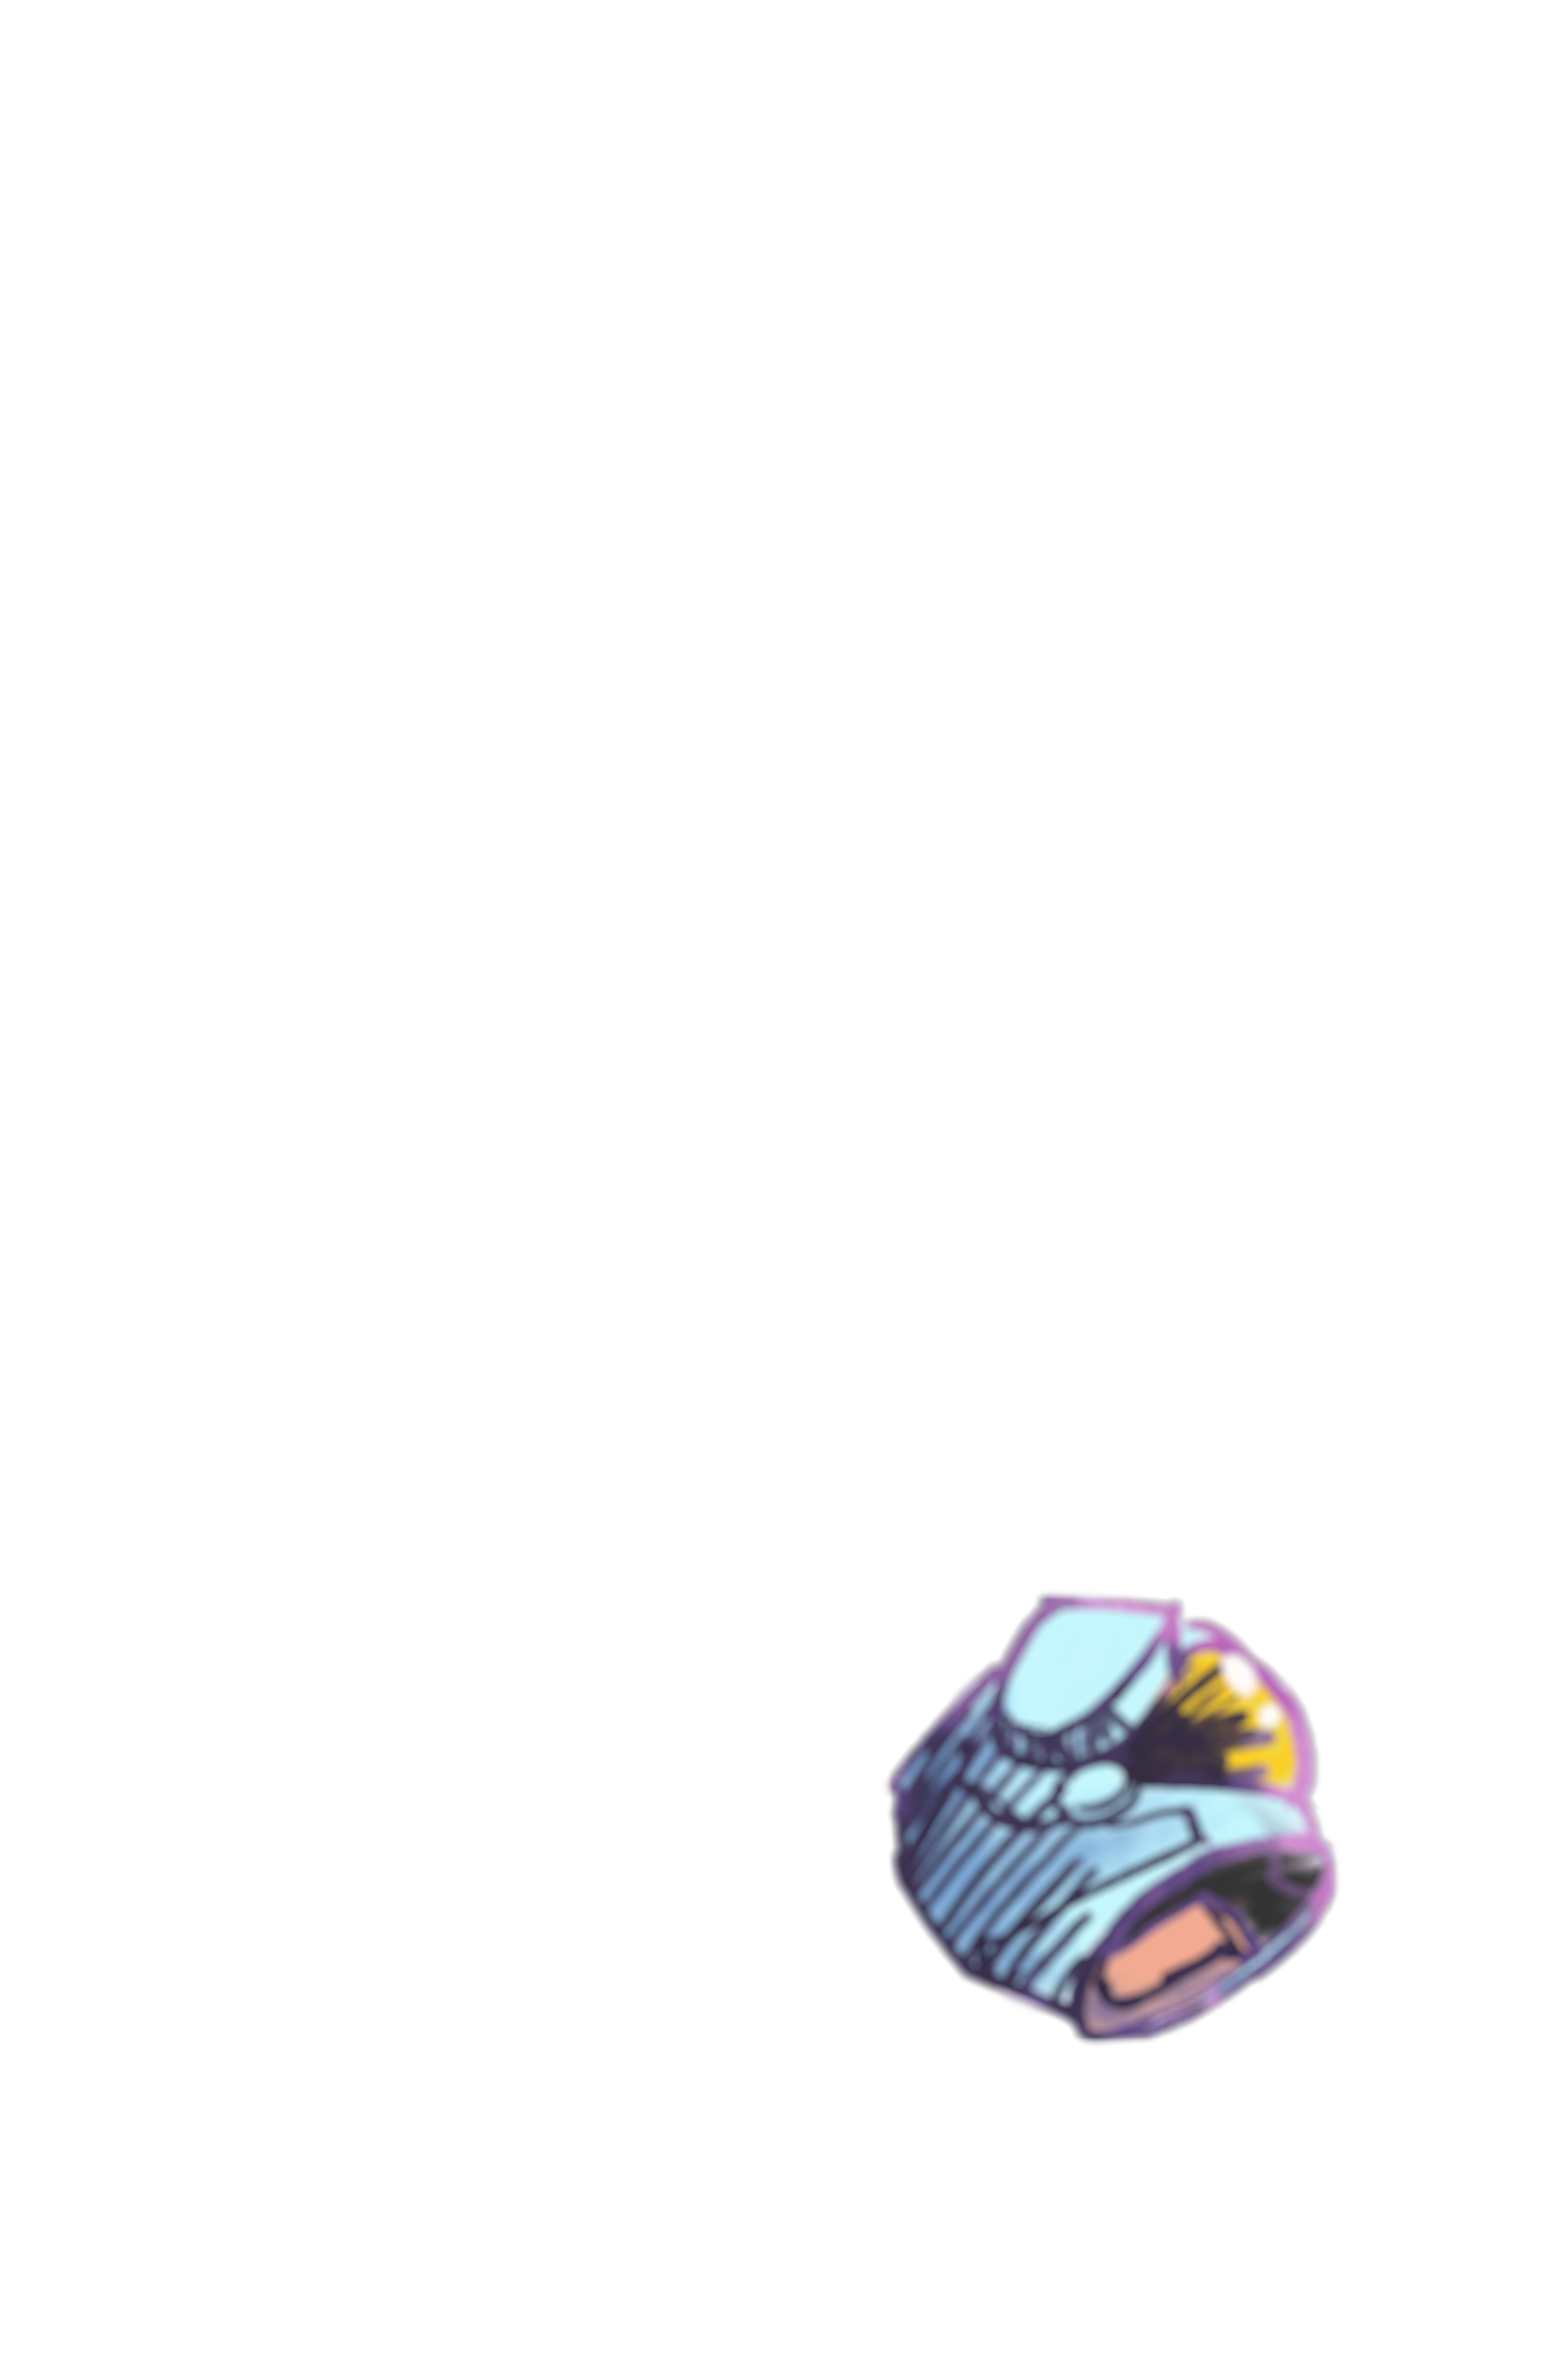
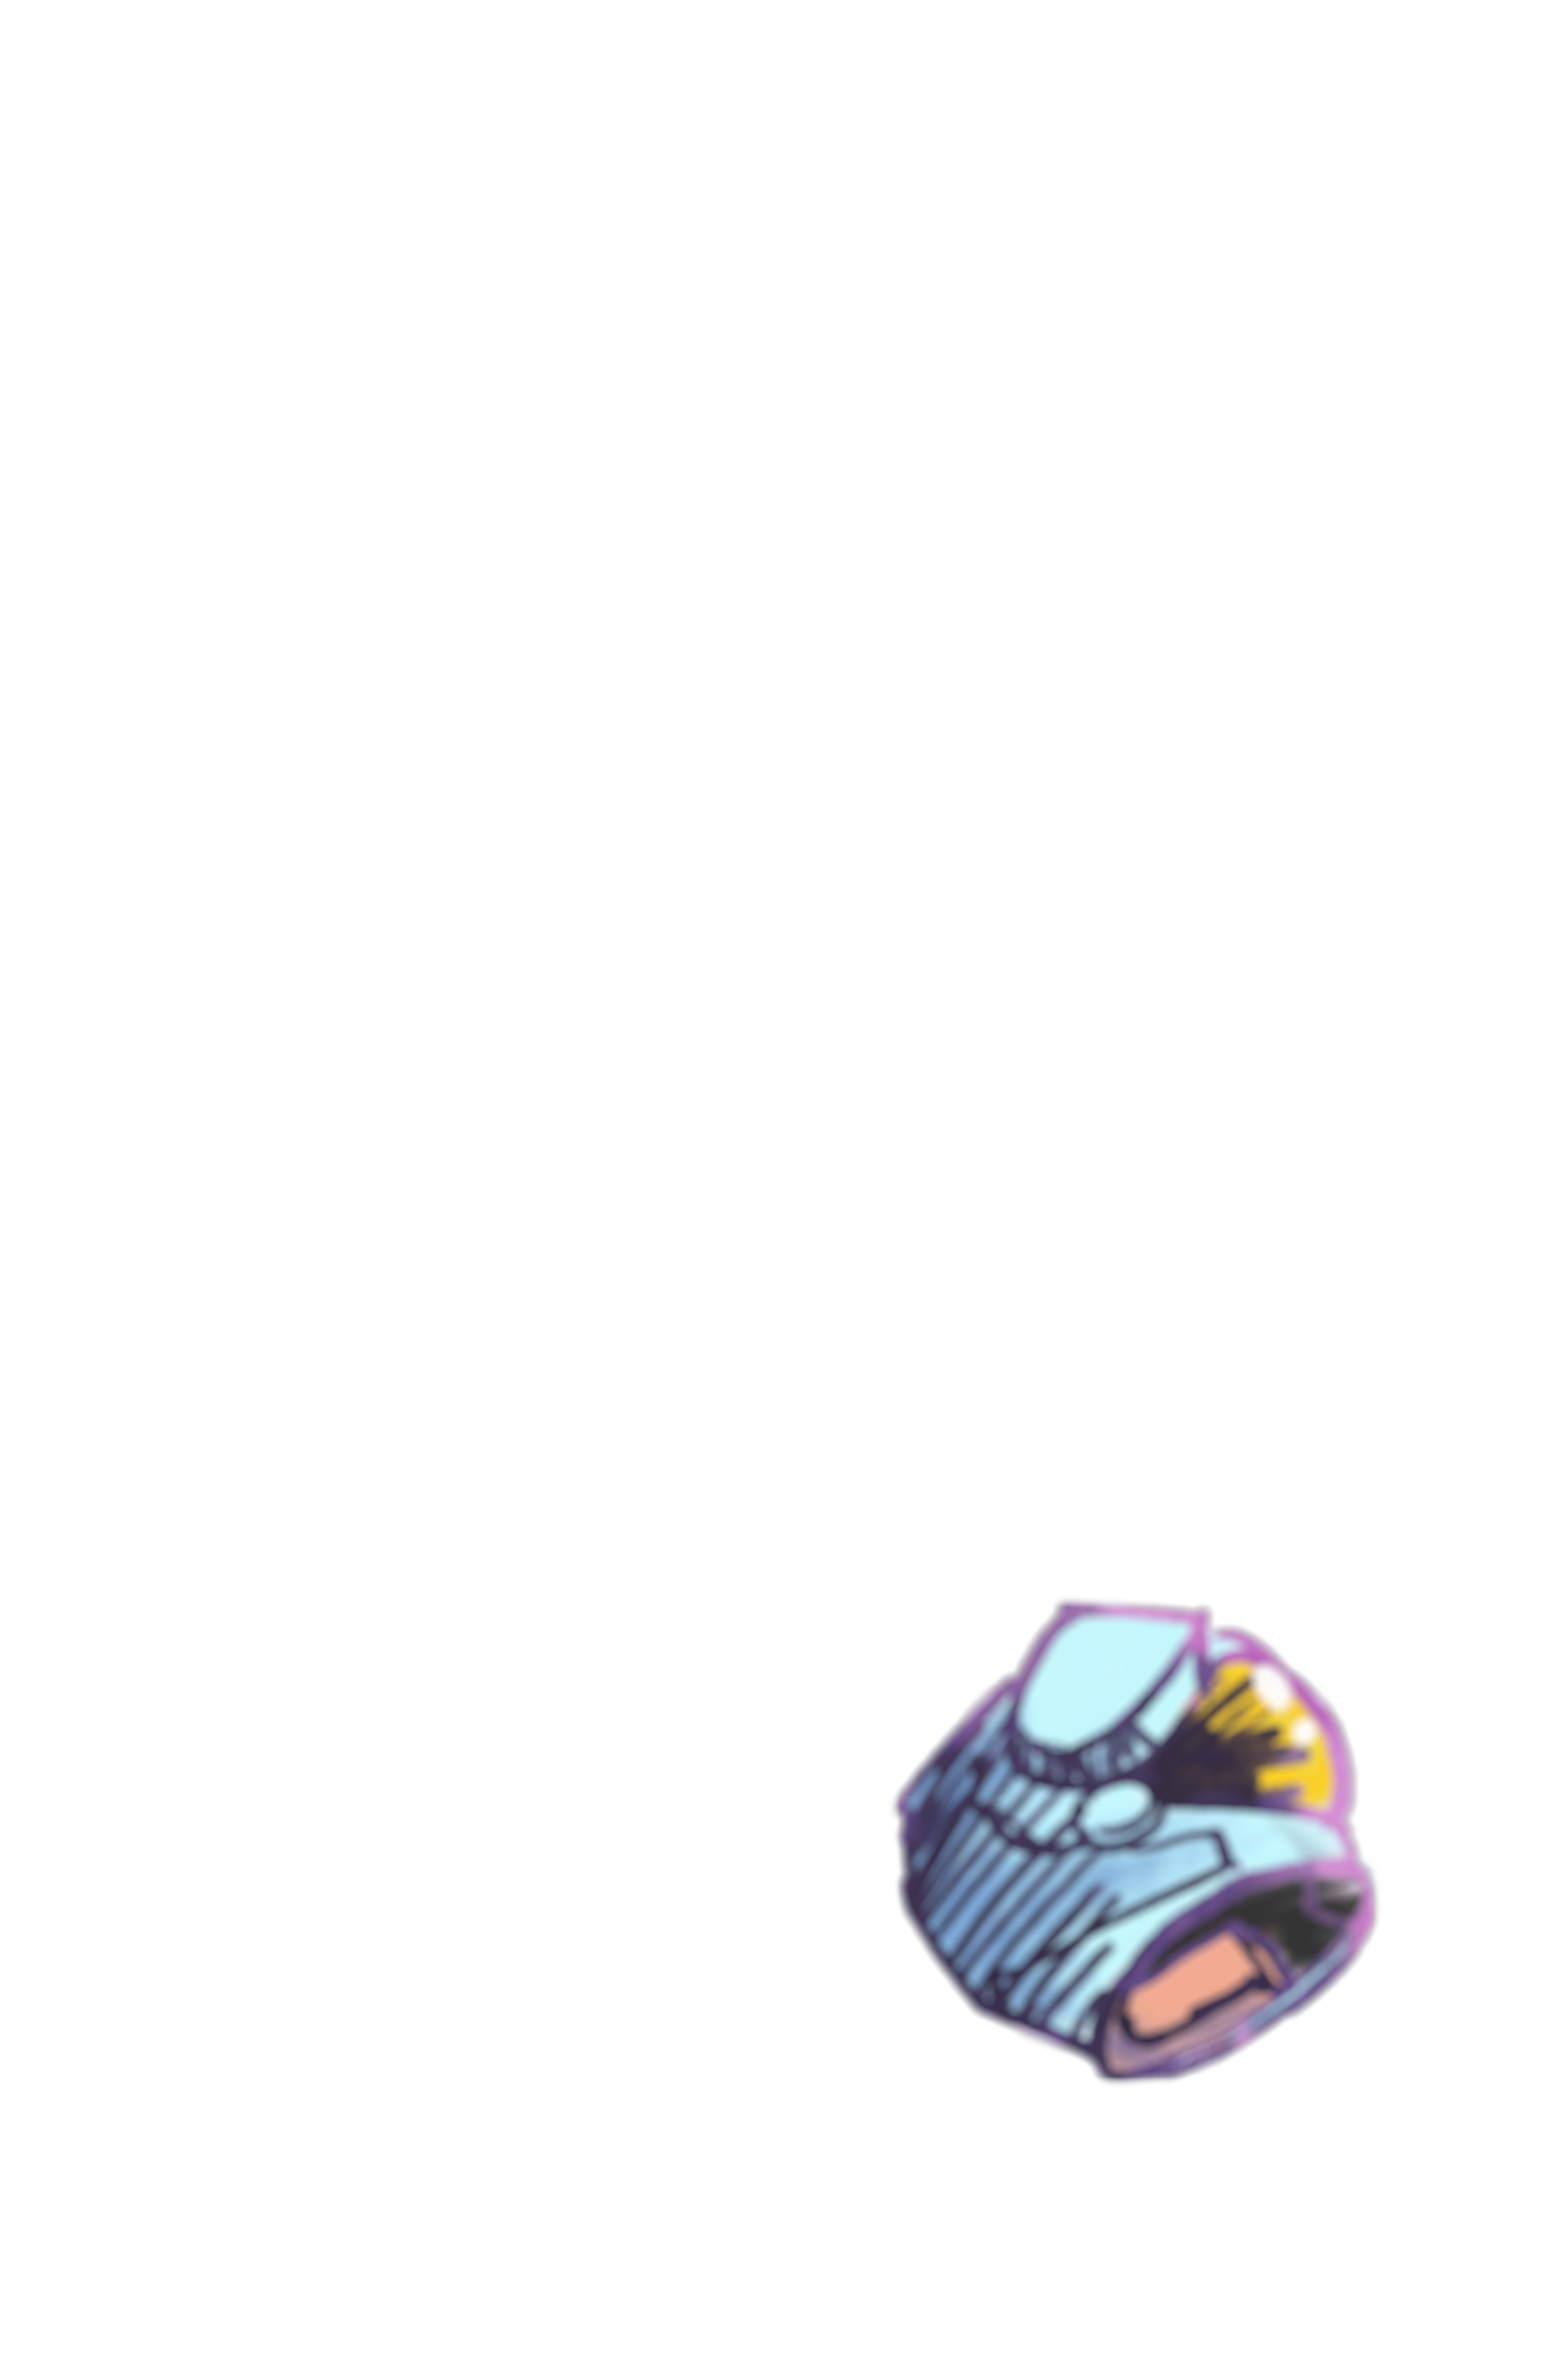
refining floating aesthetic

Changed region(s): [[0.558, 0.651, 0.899, 0.899]]

diff --git a/src/lib/Email.svelte b/src/lib/Email.svelte
@@ -49,7 +49,7 @@
 <style lang="scss">
   #email-container {
     border: none;
-    background-color: var(--magenta);
+    background-color: transparent;
     border-radius: 0.8rem;
     font-family: inherit;
     font-size: inherit;
@@ -81,6 +81,7 @@
     padding: 0 1rem;
     height: 100%;
     display: flex;
+    flex: auto;
     align-items: center;
   }
   input {
@@ -98,30 +99,8 @@
     width: 51px;
     position: relative;
     cursor: pointer;
-    background-color: var(--dark-purple);
-    background-image: linear-gradient(
-      to right,
-      var(--dark-magenta) calc(100% - 0.8rem),
-      var(--darker-magenta) 100%
-    );
-    &::before {
-      content: "";
-      position: absolute;
-      border-radius: inherit;
-      left: 0;
-      top: 0;
-      height: 100%;
-      width: 100%;
-      --shadow-color: 42, 12, 80;
-      // color: rgb(43, 13, 78);
-      box-shadow: 0 0 0.4rem rgba(var(--shadow-color), 0.1), 0 0 1rem rgba(var(--shadow-color), 0.2),
-        0 0 2rem rgba(var(--shadow-color), 0.1);
-      transition: opacity 250ms cubic-bezier(0.3, 0.7, 0.4, 1.6);
-      opacity: 0;
-    }
-    &:hover::before {
-      opacity: 1;
-    }
+    background-color: transparent;
+    perspective: 100px;
   }
   #copy-front {
     border-radius: inherit;
@@ -137,21 +116,46 @@
     width: inherit;
     align-items: center;
     will-change: transform, filter;
-    transition: transform 420ms cubic-bezier(0.3, 0.7, 0.4, 1),
-      filter 420ms cubic-bezier(0.3, 0.7, 0.4, 1);
     transform: translateY(0px);
     filter: brightness(100%);
+    img {
+      transform-style: preserve-3d;
+    }
   }
   #copy:hover #copy-front {
-    transform: translateY(-8px);
-    transition: transform 250ms cubic-bezier(0.3, 0.7, 0.4, 1.6),
-      filter 250ms cubic-bezier(0.3, 0.7, 0.4, 1);
-    // filter: brightness(130%);
+    transform-style: preserve-3d;
+    transform-origin: left;
+    animation: wobble 800ms cubic-bezier(0.3, 0.7, 0.4, 1.6);
+    filter: brightness(100%);
+    transition: transform 200ms cubic-bezier(0.3, 0.7, 0.4, 1.6),
+      filter 200ms cubic-bezier(0.3, 0.7, 0.4, 1.6);
+  }
+  @keyframes wobble {
+    0% {
+      transform: rotateY(0deg);
+      filter: brightness(100%);
+    }
+    25% {
+      transform: rotateY(32deg);
+      filter: brightness(108%);
+    }
+    50% {
+      transform: rotateY(-8deg);
+      filter: brightness(98%);
+    }
+    75% {
+      transform: rotateY(8deg);
+      filter: brightness(102%);
+    }
+    100% {
+      transform: rotateY(0deg);
+      filter: brightness(100%);
+    }
   }
   #copy:active {
     #copy-front {
-      transform: translateY(-4px);
-      transition: transform 42ms;
+      transform: rotateY(24deg);
+      filter: brightness(106%);
     }
   }
 </style>

diff --git a/src/routes/index.svelte b/src/routes/index.svelte
@@ -36,15 +36,6 @@
 </div>
 
 <style lang="scss">
-  h1,
-  h2,
-  h3,
-  h4,
-  h5,
-  h6,
-  p {
-    text-shadow: 0 0 3rem #fff;
-  }
   #bg {
     position: fixed;
     top: 0;
